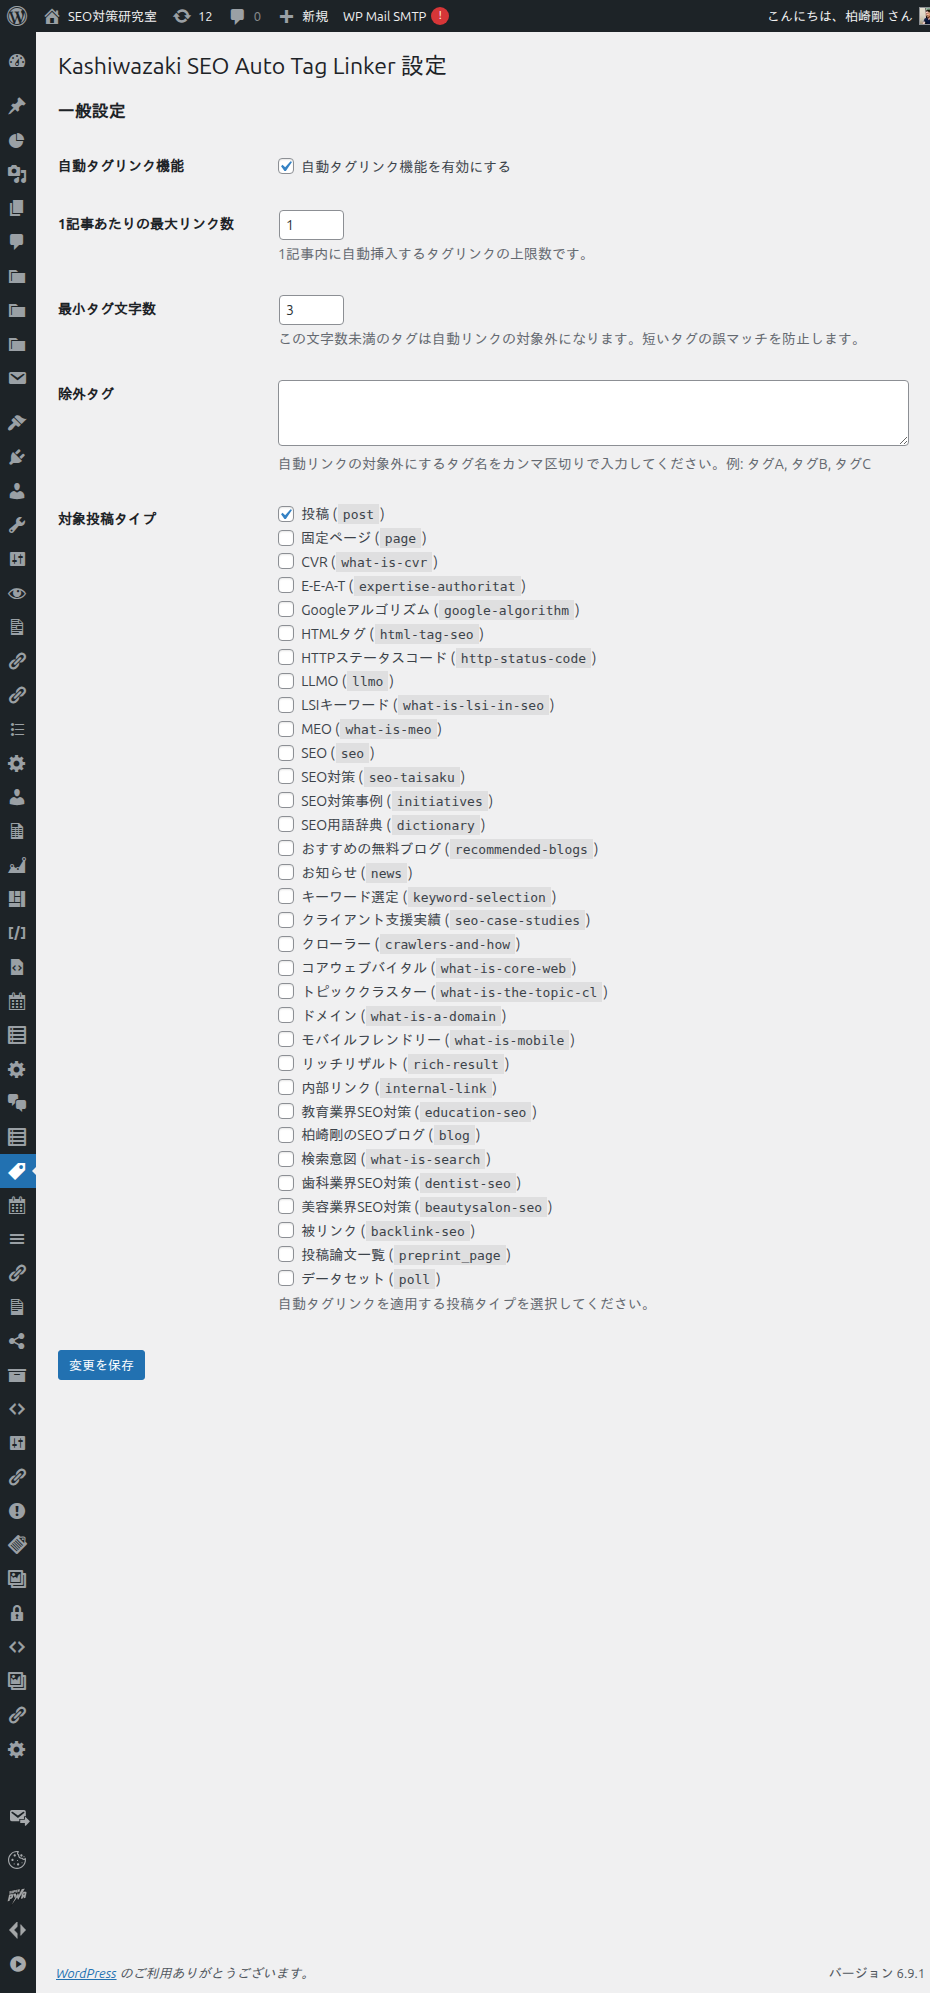
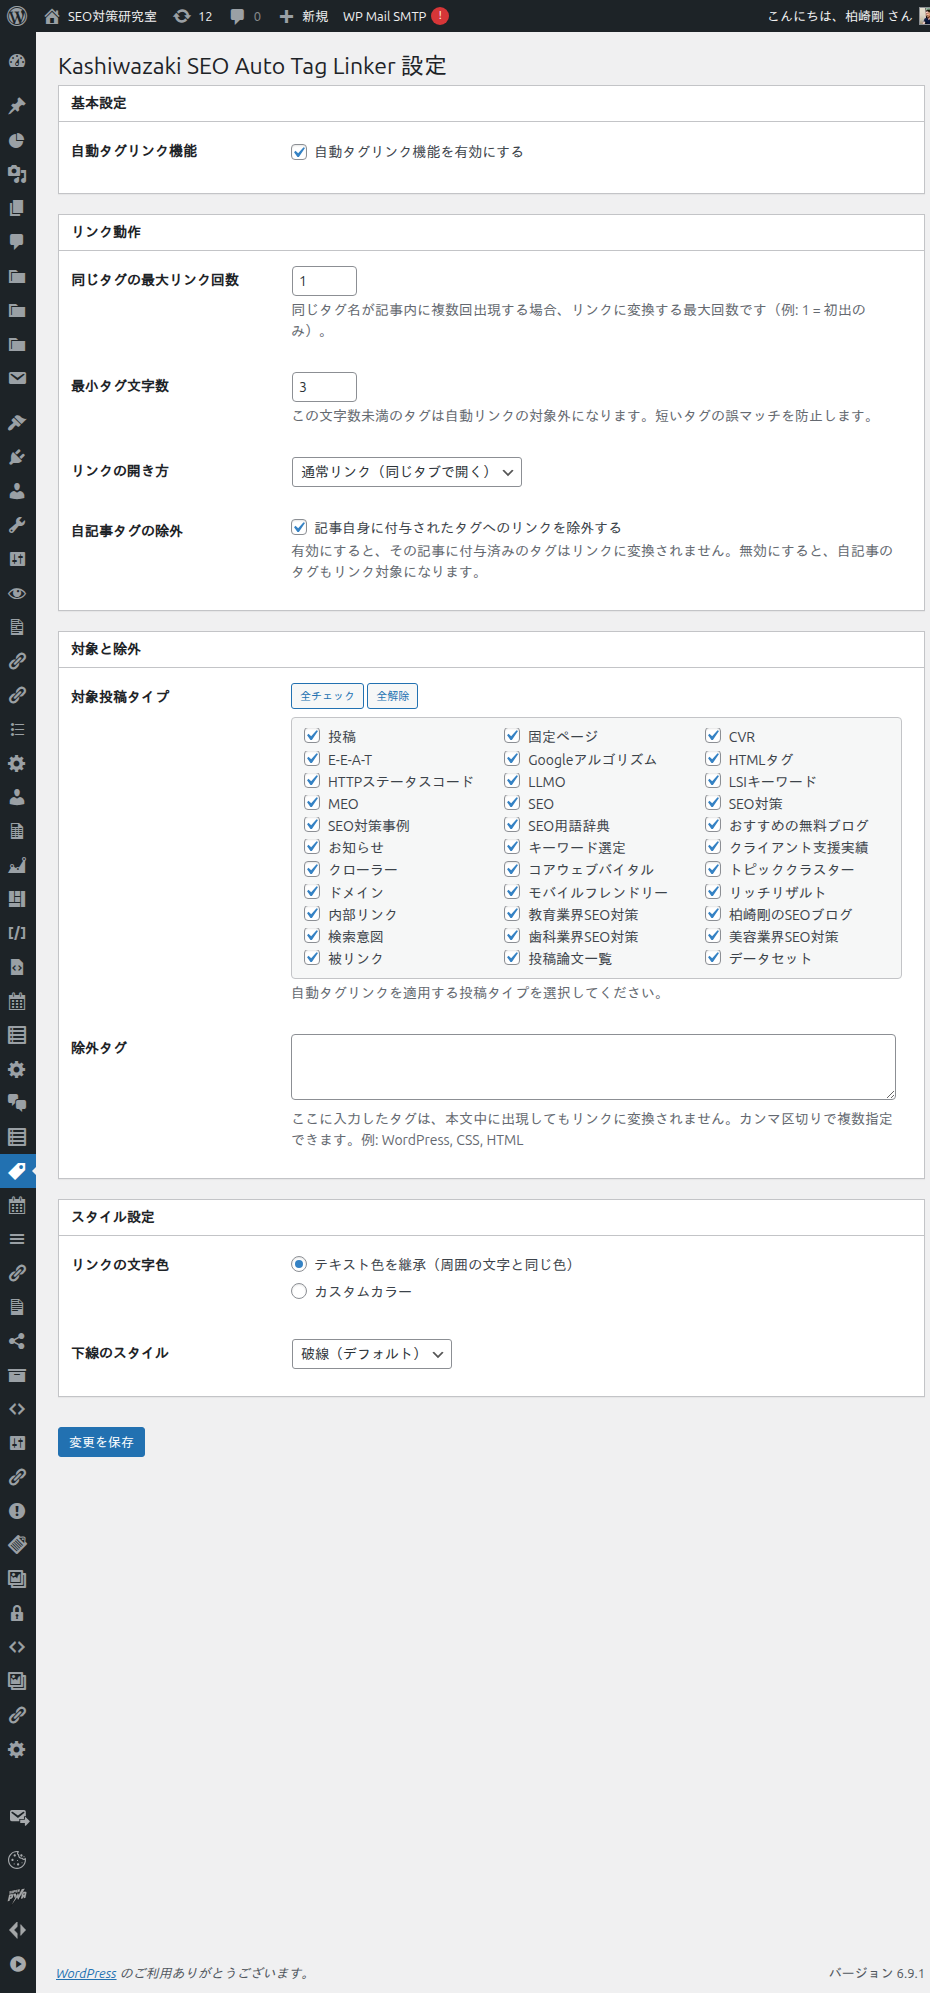
Update to v1.0.2
- 自記事タグ除外オプションを追加
- タグ名の部分一致によるリンク誤生成を防止
- 設定画面をpostboxカードレイアウトに刷新
- 投稿タイプ選択を3列グリッド・スクロール表示に変更
- 設定画面のスクリーンショットを更新

diff --git a/includes/settings.php b/includes/settings.php
@@ -86,6 +86,14 @@ function ksatl_register_settings() {
 	);
 
 	add_settings_field(
+		'ksatl_exclude_self_tags_field',
+		'自記事タグの除外',
+		'ksatl_exclude_self_tags_field_callback',
+		'ksatl_settings_page',
+		'ksatl_general_section'
+	);
+
+	add_settings_field(
 		'ksatl_post_types_field',
 		'対象投稿タイプ',
 		'ksatl_post_types_field_callback',
@@ -126,14 +134,111 @@ function ksatl_render_settings_page() {
 		return;
 	}
 	?>
-	<div class="wrap">
+	<style>
+	.ksatl-settings .postbox { margin-bottom: 20px; }
+	.ksatl-settings .postbox .hndle { cursor: default; padding: 8px 12px; margin: 0; font-size: 14px; border-bottom: 1px solid #c3c4c7; }
+	.ksatl-settings .postbox .inside { padding: 0 12px 12px; margin: 0; }
+	.ksatl-settings .postbox .inside .form-table { margin-top: 0; }
+	.ksatl-settings .postbox .inside .form-table th { padding-left: 0; }
+	.ksatl-post-types-grid {
+		display: grid;
+		grid-template-columns: repeat(3, 1fr);
+		gap: 4px 16px;
+		max-height: 240px;
+		overflow-y: auto;
+		border: 1px solid #c3c4c7;
+		border-radius: 4px;
+		background: #f6f7f7;
+		padding: 10px 12px;
+	}
+	.ksatl-post-types-grid label {
+		display: flex;
+		align-items: center;
+		gap: 4px;
+		white-space: nowrap;
+		overflow: hidden;
+		text-overflow: ellipsis;
+	}
+	</style>
+
+	<div class="wrap ksatl-settings">
 		<h1><?php echo esc_html( get_admin_page_title() ); ?></h1>
 		<form action="options.php" method="post">
-			<?php
-			settings_fields( KSATL_OPTION_NAME );
-			do_settings_sections( 'ksatl_settings_page' );
-			submit_button( '変更を保存' );
-			?>
+			<?php settings_fields( KSATL_OPTION_NAME ); ?>
+
+			<!-- 基本設定 -->
+			<div class="postbox">
+				<h2 class="hndle">基本設定</h2>
+				<div class="inside">
+					<table class="form-table"><tbody>
+						<tr>
+							<th scope="row">自動タグリンク機能</th>
+							<td><?php ksatl_enabled_field_callback(); ?></td>
+						</tr>
+					</tbody></table>
+				</div>
+			</div>
+
+			<!-- リンク動作 -->
+			<div class="postbox">
+				<h2 class="hndle">リンク動作</h2>
+				<div class="inside">
+					<table class="form-table"><tbody>
+						<tr>
+							<th scope="row">同じタグの最大リンク回数</th>
+							<td><?php ksatl_max_links_per_tag_field_callback(); ?></td>
+						</tr>
+						<tr>
+							<th scope="row">最小タグ文字数</th>
+							<td><?php ksatl_min_tag_length_field_callback(); ?></td>
+						</tr>
+						<tr>
+							<th scope="row">リンクの開き方</th>
+							<td><?php ksatl_link_target_field_callback(); ?></td>
+						</tr>
+						<tr>
+							<th scope="row">自記事タグの除外</th>
+							<td><?php ksatl_exclude_self_tags_field_callback(); ?></td>
+						</tr>
+					</tbody></table>
+				</div>
+			</div>
+
+			<!-- 対象と除外 -->
+			<div class="postbox">
+				<h2 class="hndle">対象と除外</h2>
+				<div class="inside">
+					<table class="form-table"><tbody>
+						<tr>
+							<th scope="row">対象投稿タイプ</th>
+							<td><?php ksatl_post_types_field_callback(); ?></td>
+						</tr>
+						<tr>
+							<th scope="row">除外タグ</th>
+							<td><?php ksatl_excluded_tags_field_callback(); ?></td>
+						</tr>
+					</tbody></table>
+				</div>
+			</div>
+
+			<!-- スタイル設定 -->
+			<div class="postbox">
+				<h2 class="hndle">スタイル設定</h2>
+				<div class="inside">
+					<table class="form-table"><tbody>
+						<tr>
+							<th scope="row">リンクの文字色</th>
+							<td><?php ksatl_link_color_mode_field_callback(); ?></td>
+						</tr>
+						<tr>
+							<th scope="row">下線のスタイル</th>
+							<td><?php ksatl_link_underline_style_field_callback(); ?></td>
+						</tr>
+					</tbody></table>
+				</div>
+			</div>
+
+			<?php submit_button( '変更を保存' ); ?>
 		</form>
 	</div>
 	<?php
@@ -195,6 +300,19 @@ function ksatl_excluded_tags_field_callback() {
 	<?php
 }
 
+/** 自記事タグの除外フィールド */
+function ksatl_exclude_self_tags_field_callback() {
+	$options = get_option( KSATL_OPTION_NAME, ksatl_get_default_options() );
+	$exclude = isset( $options['exclude_self_tags'] ) ? (bool) $options['exclude_self_tags'] : true;
+	?>
+	<label for="ksatl_exclude_self_tags">
+		<input type="checkbox" id="ksatl_exclude_self_tags" name="<?php echo esc_attr( KSATL_OPTION_NAME ); ?>[exclude_self_tags]" value="1" <?php checked( $exclude, true ); ?>>
+		記事自身に付与されたタグへのリンクを除外する
+	</label>
+	<p class="description">有効にすると、その記事に付与済みのタグはリンクに変換されません。無効にすると、自記事のタグもリンク対象になります。</p>
+	<?php
+}
+
 /** 対象投稿タイプフィールド */
 function ksatl_post_types_field_callback() {
 	$options = get_option( KSATL_OPTION_NAME, ksatl_get_default_options() );
@@ -207,17 +325,16 @@ function ksatl_post_types_field_callback() {
 		<button type="button" class="button button-small" id="ksatl-check-all">全チェック</button>
 		<button type="button" class="button button-small" id="ksatl-uncheck-all">全解除</button>
 	</p>
-	<?php
-	foreach ( $post_types as $post_type ) {
-		$checked = in_array( $post_type->name, $selected_types, true );
+	<div class="ksatl-post-types-grid">
+		<?php foreach ( $post_types as $post_type ) :
+			$checked = in_array( $post_type->name, $selected_types, true );
 		?>
-		<label style="display: block; margin-bottom: 5px;">
+		<label title="<?php echo esc_attr( $post_type->name ); ?>">
 			<input type="checkbox" class="ksatl-post-type-cb" name="<?php echo esc_attr( KSATL_OPTION_NAME ); ?>[post_types][]" value="<?php echo esc_attr( $post_type->name ); ?>" <?php checked( $checked, true ); ?>>
-			<?php echo esc_html( $post_type->labels->name ); ?> (<code><?php echo esc_html( $post_type->name ); ?></code>)
+			<?php echo esc_html( $post_type->labels->name ); ?>
 		</label>
-		<?php
-	}
-	?>
+		<?php endforeach; ?>
+	</div>
 	<p class="description">自動タグリンクを適用する投稿タイプを選択してください。</p>
 	<script>
 	document.getElementById('ksatl-check-all').addEventListener('click', function() {
@@ -313,6 +430,9 @@ function ksatl_sanitize_options( $input ) {
 	$new_input['excluded_tags'] = isset( $input['excluded_tags'] )
 		? wp_strip_all_tags( trim( $input['excluded_tags'] ) )
 		: '';
+
+	// 自記事タグの除外
+	$new_input['exclude_self_tags'] = ! empty( $input['exclude_self_tags'] );
 
 	// 対象投稿タイプ
 	if ( ! empty( $input['post_types'] ) && is_array( $input['post_types'] ) ) {

diff --git a/includes/auto-linker.php b/includes/auto-linker.php
@@ -49,6 +49,25 @@ function ksatl_auto_link_tags( $content ) {
 		$content
 	);
 
+	$tag_placeholders = array();
+
+	// 現在記事のタグ名をプレースホルダーで保護（自記事タグが除外される場合、テキストとして残り部分一致の原因になる）
+	$exclude_self = isset( $options['exclude_self_tags'] ) ? (bool) $options['exclude_self_tags'] : true;
+	$current_tags = $exclude_self ? get_the_tags() : false;
+	if ( ! empty( $current_tags ) && ! is_wp_error( $current_tags ) ) {
+		$current_tag_names = wp_list_pluck( $current_tags, 'name' );
+		usort( $current_tag_names, function ( $a, $b ) {
+			return mb_strlen( $b ) - mb_strlen( $a );
+		} );
+		foreach ( $current_tag_names as $ctag_name ) {
+			if ( mb_strpos( $content, $ctag_name ) !== false ) {
+				$key = '<!--KSATL_TG' . count( $tag_placeholders ) . '-->';
+				$tag_placeholders[ $key ] = $ctag_name;
+				$content = ksatl_protect_tag_text( $content, $ctag_name, $key );
+			}
+		}
+	}
+
 	foreach ( $tags as $tag ) {
 		// コンテンツにタグ名が存在しなければスキップ（preg_split・DB問い合わせを回避）
 		if ( mb_strpos( $content, $tag->name ) === false ) {
@@ -64,6 +83,18 @@ function ksatl_auto_link_tags( $content ) {
 		if ( $replaced !== false ) {
 			$content = $replaced;
 		}
+
+		// 未リンクのタグ名をプレースホルダーで保護（短いタグの部分一致を防止）
+		if ( mb_strpos( $content, $tag->name ) !== false ) {
+			$key = '<!--KSATL_TG' . count( $tag_placeholders ) . '-->';
+			$tag_placeholders[ $key ] = $tag->name;
+			$content = ksatl_protect_tag_text( $content, $tag->name, $key );
+		}
+	}
+
+	// タグ名プレースホルダーを復元（短いタグの部分一致防止用）
+	if ( ! empty( $tag_placeholders ) ) {
+		$content = str_replace( array_keys( $tag_placeholders ), array_values( $tag_placeholders ), $content );
 	}
 
 	// プレースホルダーを復元
@@ -84,11 +115,14 @@ function ksatl_get_eligible_tags( $options ) {
 		return array();
 	}
 
-	// 現在記事のタグIDを取得
-	$current_tags    = get_the_tags();
+	// 現在記事のタグIDを取得（設定で除外が有効な場合のみ）
+	$exclude_self = isset( $options['exclude_self_tags'] ) ? (bool) $options['exclude_self_tags'] : true;
 	$current_tag_ids = array();
-	if ( ! empty( $current_tags ) && ! is_wp_error( $current_tags ) ) {
-		$current_tag_ids = wp_list_pluck( $current_tags, 'term_id' );
+	if ( $exclude_self ) {
+		$current_tags = get_the_tags();
+		if ( ! empty( $current_tags ) && ! is_wp_error( $current_tags ) ) {
+			$current_tag_ids = wp_list_pluck( $current_tags, 'term_id' );
+		}
 	}
 
 	// 除外タグリストを準備
@@ -128,6 +162,38 @@ function ksatl_get_eligible_tags( $options ) {
 	} );
 
 	return $eligible_tags;
+}
+
+/**
+ * テキストノード内のタグ名をプレースホルダーに置換する（リンク内は除外）
+ *
+ * 長いタグを処理した後、残りの未リンク出現箇所をプレースホルダーで保護し、
+ * 短いタグによる部分一致を防止する。
+ */
+function ksatl_protect_tag_text( $content, $tag_name, $placeholder ) {
+	$parts = preg_split( '/(<[^>]+>)/s', $content, -1, PREG_SPLIT_DELIM_CAPTURE );
+	$inside_a = 0;
+
+	foreach ( $parts as $i => $part ) {
+		if ( isset( $part[0] ) && $part[0] === '<' ) {
+			if ( preg_match( '/^<a[\s>]/i', $part ) ) {
+				$inside_a++;
+			} elseif ( stripos( $part, '</a' ) === 0 ) {
+				$inside_a = max( 0, $inside_a - 1 );
+			}
+			continue;
+		}
+
+		if ( $inside_a > 0 ) {
+			continue;
+		}
+
+		if ( mb_strpos( $part, $tag_name ) !== false ) {
+			$parts[ $i ] = str_replace( $tag_name, $placeholder, $part );
+		}
+	}
+
+	return implode( '', $parts );
 }
 
 /**

diff --git a/kashiwazaki-seo-auto-tag-linker.php b/kashiwazaki-seo-auto-tag-linker.php
@@ -3,7 +3,7 @@
  * Plugin Name: Kashiwazaki SEO Auto Tag Linker
  * Plugin URI: https://www.tsuyoshikashiwazaki.jp
  * Description: 投稿コンテンツ内のタグ名に一致するテキストを自動的にタグアーカイブページへのリンクに変換し、内部リンク構造を強化するSEOプラグインです。
- * Version: 1.0.1
+ * Version: 1.0.2
  * Author: 柏崎剛 (Tsuyoshi Kashiwazaki)
  * Author URI: https://www.tsuyoshikashiwazaki.jp/profile/
  * Text Domain: kashiwazaki-seo-auto-tag-linker
@@ -17,7 +17,7 @@ if ( ! defined( 'ABSPATH' ) ) {
 // 定数
 define( 'KSATL_PLUGIN_DIR', plugin_dir_path( __FILE__ ) );
 define( 'KSATL_PLUGIN_URL', plugin_dir_url( __FILE__ ) );
-define( 'KSATL_VERSION', '1.0.1' );
+define( 'KSATL_VERSION', '1.0.2' );
 define( 'KSATL_OPTION_NAME', 'ksatl_options' );
 define( 'KSATL_PLUGIN_BASENAME', plugin_basename( __FILE__ ) );
 
@@ -31,6 +31,7 @@ function ksatl_get_default_options() {
 		'link_target'       => '_self',
 		'min_tag_length'    => 3,
 		'excluded_tags'     => '',
+		'exclude_self_tags' => true,
 		'post_types'        => array( 'post' ),
 		'link_color_mode'    => 'inherit',
 		'link_color_custom'  => '#333333',

diff --git a/README.md b/README.md
@@ -1,6 +1,6 @@
 # Kashiwazaki SEO Auto Tag Linker
 
-![Version](https://img.shields.io/badge/version-1.0.1-blue.svg)
+![Version](https://img.shields.io/badge/version-1.0.2-blue.svg)
 ![License](https://img.shields.io/badge/license-GPL--2.0-green.svg)
 ![WordPress](https://img.shields.io/badge/WordPress-5.0%2B-blue.svg)
 ![PHP](https://img.shields.io/badge/PHP-7.4%2B-purple.svg)
@@ -13,9 +13,10 @@
 - **同一タグリンク回数制御** - 同じタグが複数回出現する場合のリンク変換回数を制限（例: 初出のみ）
 - **最小タグ文字数フィルタ** - 短いタグ名の誤マッチを防止するための文字数下限設定
 - **除外タグリスト** - 自動リンク対象外にするタグをカンマ区切りで指定可能
+- **自記事タグ除外** - 記事自身に付与されたタグへのリンクを除外するオプション
 - **カスタム投稿タイプ対応** - 投稿以外のカスタム投稿タイプにも適用可能
 - **リンクターゲット設定** - 同じタブまたは新しいタブで開くかを選択可能
-- **破線アンダーラインスタイル** - 自動生成リンクを通常リンクと区別する控えめな破線スタイル
+- **リンクスタイル設定** - リンク文字色（継承/カスタム）と下線スタイル（破線・実線・点線・二重線・波線・なし）を選択可能
 - **安全なHTML処理** - 以下のHTML要素内のテキストは自動リンクの対象外
   - リンク: `<a>`
   - 見出し: `<h1>`〜`<h6>`
@@ -52,8 +53,11 @@ git clone https://github.com/TsuyoshiKashiwazaki/wp-plugin-kashiwazaki-seo-auto-
    - **同じタグの最大リンク回数**: 1記事内で同じタグをリンクに変換する最大回数
    - **最小タグ文字数**: 指定文字数未満のタグを対象外にする
    - **リンクの開き方**: 同じタブ / 新しいタブを選択
+   - **自記事タグの除外**: 記事自身に付与されたタグへのリンクを除外
    - **除外タグ**: 自動リンクしたくないタグをカンマ区切りで指定
    - **対象投稿タイプ**: 自動リンクを適用する投稿タイプを選択
+   - **リンクの文字色**: テキスト色を継承 / カスタムカラーから選択
+   - **下線のスタイル**: 破線・実線・点線・二重線・波線・なしから選択
 
 ## 動作要件
 

diff --git a/CHANGELOG.md b/CHANGELOG.md
@@ -3,6 +3,17 @@
 このプロジェクトのすべての変更はこのファイルに記録されます。
 フォーマットは [Keep a Changelog](https://keepachangelog.com/ja/1.0.0/) に基づいています。
 
+## [1.0.2] - 2026-02-11
+
+### Added
+- 自記事タグ除外オプション（記事自身に付与されたタグへのリンクを除外するか設定可能に）
+- タグ名の部分一致防止処理（長いタグ処理後に未リンク出現箇所をプレースホルダーで保護）
+
+### Changed
+- 設定画面をpostboxカードレイアウトに刷新（基本設定・リンク動作・対象と除外・スタイル設定の4セクション）
+- 投稿タイプ選択UIを3列グリッド・スクロール表示に変更
+- 投稿タイプ名のみ表示、スラッグはtitle属性に退避（行を短縮）
+
 ## [1.0.1] - 2026-02-10
 
 ### Added
@@ -27,5 +38,6 @@
 - 特殊HTMLタグ内のテキストを自動リンク対象外にする安全処理（`<a>`, `<h1>`〜`<h6>`, `<script>`, `<style>`, `<code>`, `<pre>`, `<textarea>`, `<select>`, `<button>`, `<svg>`, `<iframe>`, `<canvas>`, `<video>`, `<audio>`, `<object>`, `<noscript>`, `<template>`）
 - 管理画面からの設定ページ
 
-[1.0.1]: https://github.com/TsuyoshiKashiwazaki/wp-plugin-kashiwazaki-seo-auto-tag-linker/releases/tag/v1.0.1-dev
+[1.0.2]: https://github.com/TsuyoshiKashiwazaki/wp-plugin-kashiwazaki-seo-auto-tag-linker/releases/tag/v1.0.2-dev
+[1.0.1]: https://github.com/TsuyoshiKashiwazaki/wp-plugin-kashiwazaki-seo-auto-tag-linker/releases/tag/v1.0.1
 [1.0.0]: https://github.com/TsuyoshiKashiwazaki/wp-plugin-kashiwazaki-seo-auto-tag-linker/releases/tag/v1.0.0
